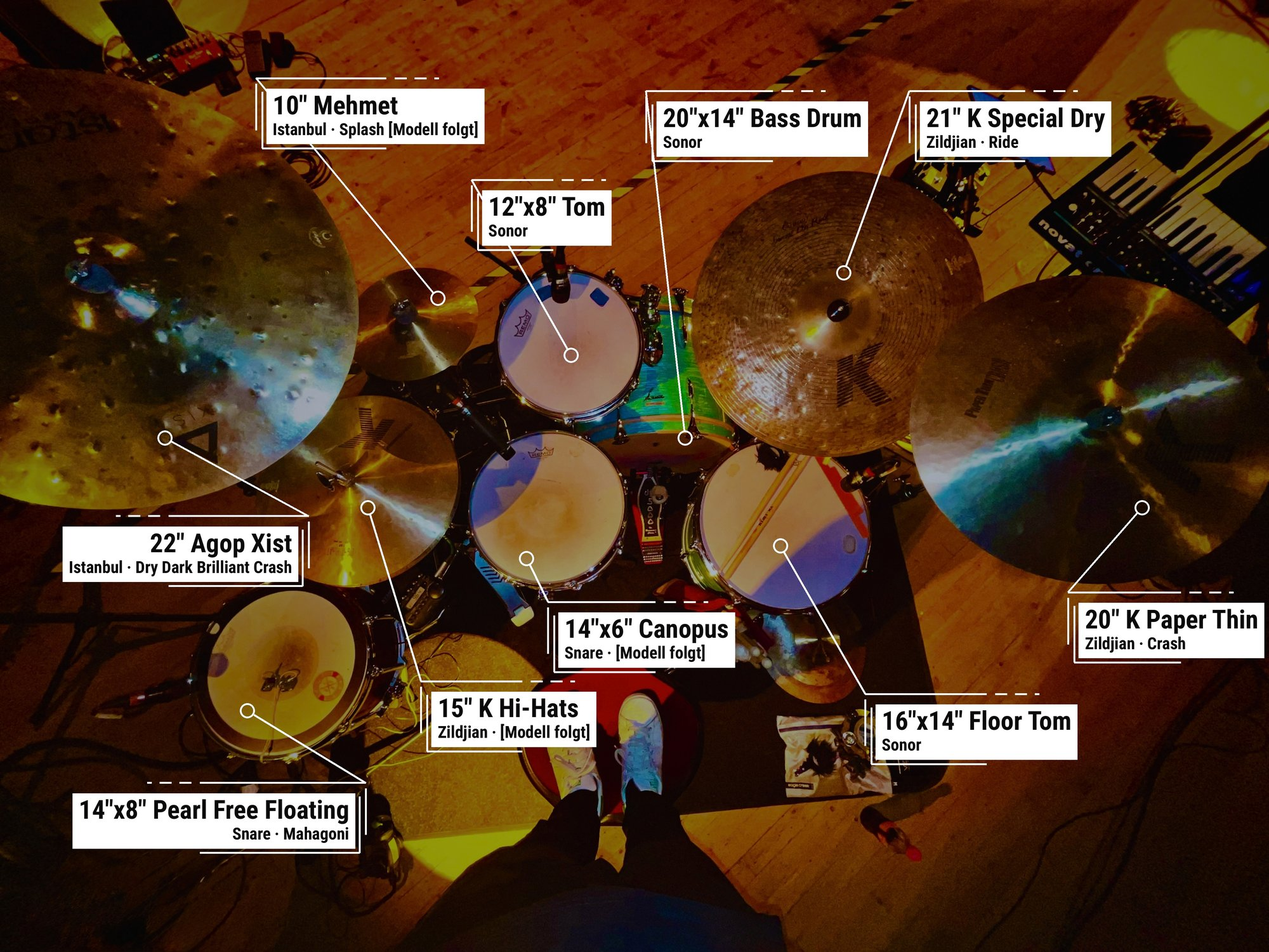
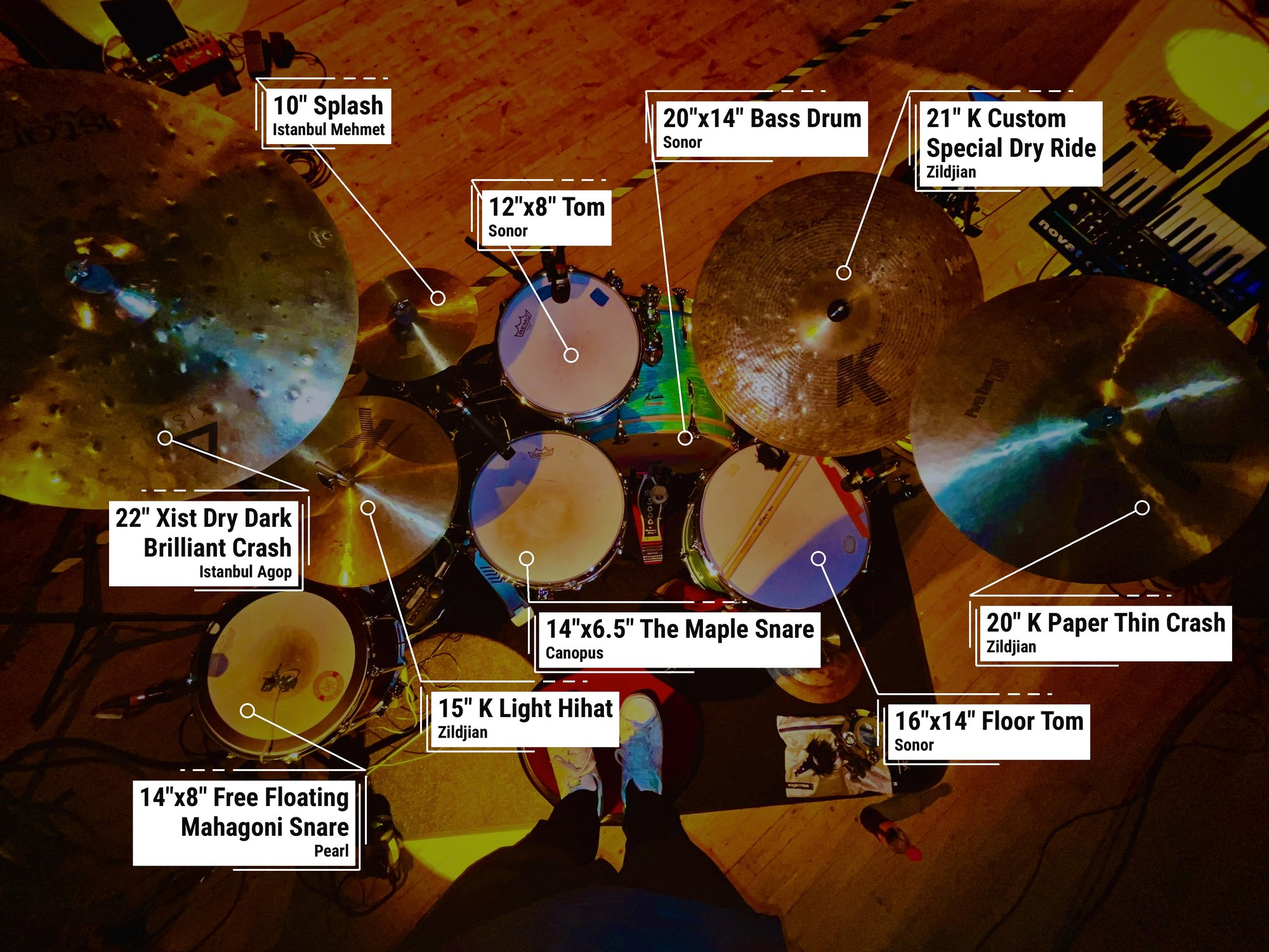
Sonor: Bild 1 und 4 durch neue Fotos ersetzt

diff --git a/CLAUDE.md b/CLAUDE.md
@@ -630,10 +630,12 @@ Blue" (EN-Wortlaut von Leo vorgegeben), keine Endorsement-
 Behauptung, da Leo es als "mein Sonor Vintage Series" beschrieb), darunter
 eine normale `.epk-gallery.epk-gallery--color` mit 4 Fotos des grünen Kits
 (`assets/images/sonor-photo-1.jpg`–`-4.jpg`, aus iPhone-Originalen
-`IMG_8338/8343/8339.jpeg` (in dieser Reihenfolge, 2↔3 getauscht); **Bild 4 ist
-seit 2026-10-04 das beschriftete Setup-Foto** (`setup-beschriftet-dunkel.jpg`,
-Draufsicht mit weißen Beschriftungsboxen je Trommel/Becken, 2000×1500 q85;
-einzelne Boxen enthalten noch den Platzhalter „[Modell folgt]“ im Bild selbst) 4032×3024 auf 1600×1200 skaliert, JPEG q82;
+(Bild 2 = `IMG_8343`, Bild 3 = `IMG_8339`; Bild 1 seit 2026-10-05 die
+neue Aufnahme `IMG_8338.jpeg`, Draufsicht von links — nicht zu verwechseln mit
+dem gleichnamigen alten `IMG_8338` in `Inbox/processed/`); **Bild 4 ist das
+beschriftete Setup-Foto** (`setup-beschriftet-dunkel.jpg`, Draufsicht mit
+weißen Beschriftungsboxen je Trommel/Becken, 2000×1500 q85; seit 2026-10-05
+in der finalen Fassung mit allen Modellnamen, kein „[Modell folgt]“ mehr) 4032×3024 auf 1600×1200 skaliert, JPEG q82;
 Grid zeigt sie quadratisch zugeschnitten, die Lightbox das volle 4:3-Bild).
 Kein Credit/`data-credit` (Leos eigene Fotos). Vorschau von Bild 3 hat inline
 `object-position:25% 50%`, damit das Set im quadratischen Ausschnitt mittig

diff --git a/CHANGELOG.md b/CHANGELOG.md
@@ -5,6 +5,13 @@ Aktueller Zustand/Architektur steht in `CLAUDE.md`, nicht hier.
 
 ## Erledigt (chronologisch, neueste zuerst)
 
+- **Sonor: Bild 1 und 4 ausgetauscht (2026-10-05).** Zwei neue Dateien aus der
+  Inbox: `IMG_8338.jpeg` (neue Aufnahme, 4032×3024 → 1600×1200, q82) ersetzt
+  `sonor-photo-1.jpg`; `setup-beschriftet-dunkel.jpg` (aktualisierte
+  Beschriftung, 4096×3072 → 2000×1500, q85) ersetzt `sonor-photo-4.jpg`.
+  Originale als `…-2026-10-05` nach `Inbox/processed/` (Namen kollidierten
+  mit den Vorversionen).
+
 - **Gear-/Foto-Reihen-Animation ruckelfrei (2026-10-04).** `soft-scroll.js` von
   per-Frame-`scrollLeft` (Hauptthread, stockte beim Bild-Dekodieren) auf FLIP
   mit CSS-Transform-Transition (Compositor/GPU) umgestellt; Gear-Bilder werden
